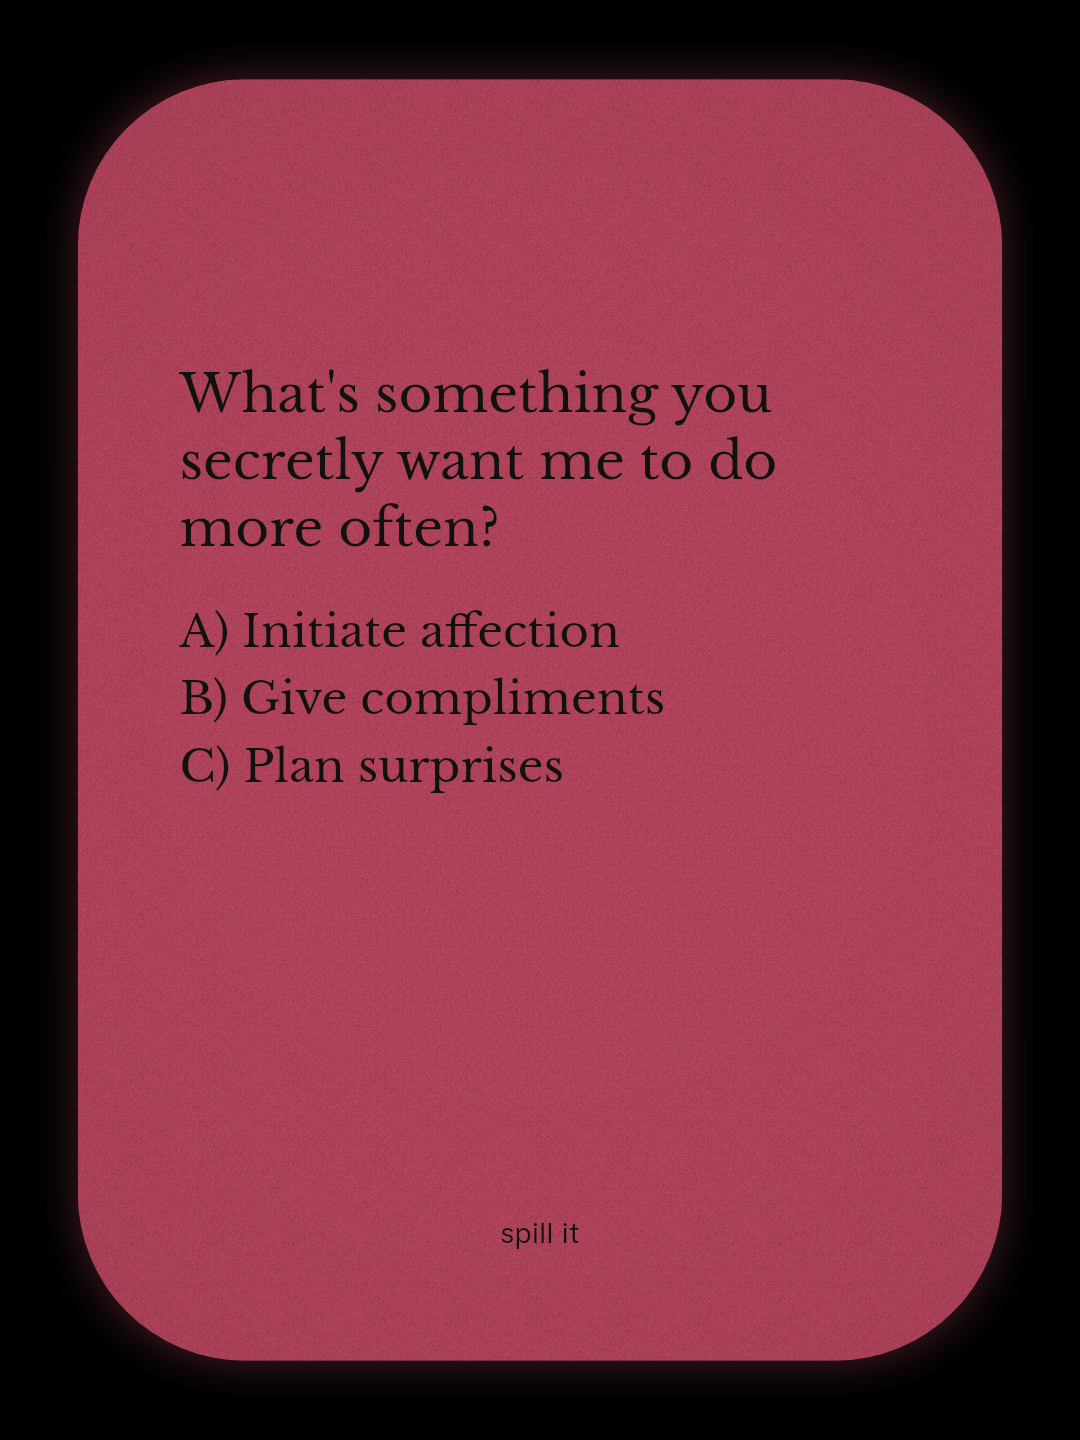
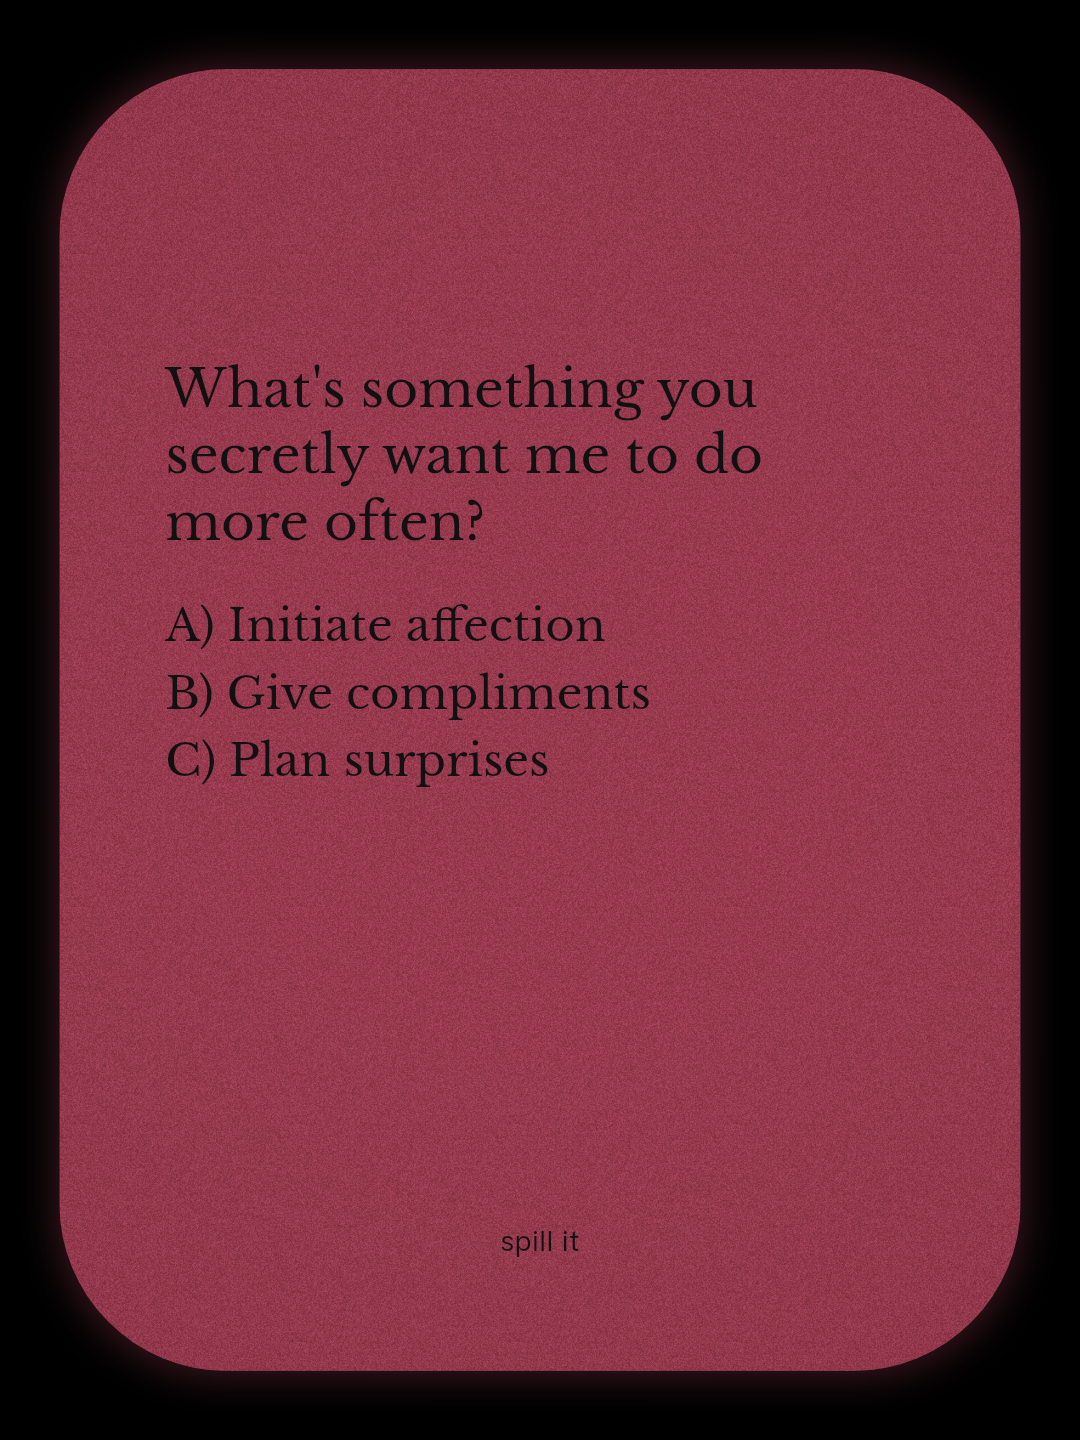
Tune flamingo template 31 cover grain and type size.
Heavier film-grain overlay plus denser noise asset, and larger
cover titles that wrap across two wide lines like the reference.

diff --git a/app/lib/image-template-31-flamingo.ts b/app/lib/image-template-31-flamingo.ts
@@ -24,7 +24,8 @@ export const IMAGE_TEMPLATE31_CTA_TAB = IMAGE_TEMPLATE31_QUESTION_COUNT;
 export const IMAGE_TEMPLATE31_FRAME_BG = '#000000';
 export const IMAGE_TEMPLATE31_TEXT = '#111111';
 export const IMAGE_TEMPLATE31_MARK = 'spill it';
-export const IMAGE_TEMPLATE31_GRAIN_SRC = '/image-templates/template-14-grain.png';
+/** Dense mid-grey noise — flamingo cards read as heavy film grain, not soft dust. */
+export const IMAGE_TEMPLATE31_GRAIN_SRC = '/image-templates/template-31-grain.png';
 
 /** Sampled from flamingoappreels rose + lavender posts. */
 export const IMAGE_TEMPLATE31_COLORS = [
@@ -43,20 +44,25 @@ export const IMAGE_TEMPLATE31_SERIF_STACK =
 export const IMAGE_TEMPLATE31_SANS_STACK =
   '"TikTok Sans", Helvetica, Arial, "Helvetica Neue", sans-serif';
 
-/** Card inset from the black frame. */
-export const IMAGE_TEMPLATE31_CARD_INSET_X = 0.072;
-export const IMAGE_TEMPLATE31_CARD_INSET_Y = 0.055;
+/** Card inset from the black frame — tight so cover type can sit large. */
+export const IMAGE_TEMPLATE31_CARD_INSET_X = 0.055;
+export const IMAGE_TEMPLATE31_CARD_INSET_Y = 0.048;
 /** Corner radius as a share of frame width — large squircle like the IG posts. */
 export const IMAGE_TEMPLATE31_CARD_RADIUS_RATIO = 0.155;
 export const IMAGE_TEMPLATE31_EDGE_SCALE = 1.012;
 export const IMAGE_TEMPLATE31_EDGE_BLUR_RATIO = 0.018;
-export const IMAGE_TEMPLATE31_GRAIN_ALPHA = 0.82;
+/** Overlay pass strength — high enough that grain stays visible on cover colour. */
+export const IMAGE_TEMPLATE31_GRAIN_ALPHA = 0.55;
+/** Second multiply pass for the darker speckles flamingo cards show. */
+export const IMAGE_TEMPLATE31_GRAIN_MULTIPLY_ALPHA = 0.42;
+export const IMAGE_TEMPLATE31_GRAIN_SCALE = 0.85;
 
-const COVER_SIZE = 0.052;
-const COVER_MIN_SIZE = 0.036;
-const COVER_LEADING = 1.22;
-const COVER_WIDTH = 0.72;
-const COVER_CENTER_Y = 0.46;
+/** Cover titles are large — flamingo wraps a short hook across ~2 wide lines. */
+const COVER_SIZE = 0.07;
+const COVER_MIN_SIZE = 0.05;
+const COVER_LEADING = 1.16;
+const COVER_WIDTH = 0.9;
+const COVER_CENTER_Y = 0.44;
 
 const QUESTION_SIZE = 0.048;
 const QUESTION_MIN_SIZE = 0.034;
@@ -263,15 +269,20 @@ function paintCardFill(
   ctx.fillRect(card.x, card.y, card.width, card.height);
 
   if (grain) {
-    ctx.globalAlpha = IMAGE_TEMPLATE31_GRAIN_ALPHA;
-    ctx.globalCompositeOperation = 'multiply';
     const pattern = ctx.createPattern(grain, 'repeat');
     if (pattern) {
       if ('setTransform' in pattern && typeof DOMMatrix !== 'undefined') {
-        const matrix = new DOMMatrix().scale(0.45);
+        const matrix = new DOMMatrix().scale(IMAGE_TEMPLATE31_GRAIN_SCALE);
         pattern.setTransform(matrix);
       }
+      // Overlay lifts contrast so the film grain reads on lavender and rose.
+      ctx.globalAlpha = IMAGE_TEMPLATE31_GRAIN_ALPHA;
+      ctx.globalCompositeOperation = 'overlay';
       ctx.fillStyle = pattern;
+      ctx.fillRect(card.x, card.y, card.width, card.height);
+      // Multiply darkens the speckles so the field looks paper-rough, not soft.
+      ctx.globalAlpha = IMAGE_TEMPLATE31_GRAIN_MULTIPLY_ALPHA;
+      ctx.globalCompositeOperation = 'multiply';
       ctx.fillRect(card.x, card.y, card.width, card.height);
     }
   }
